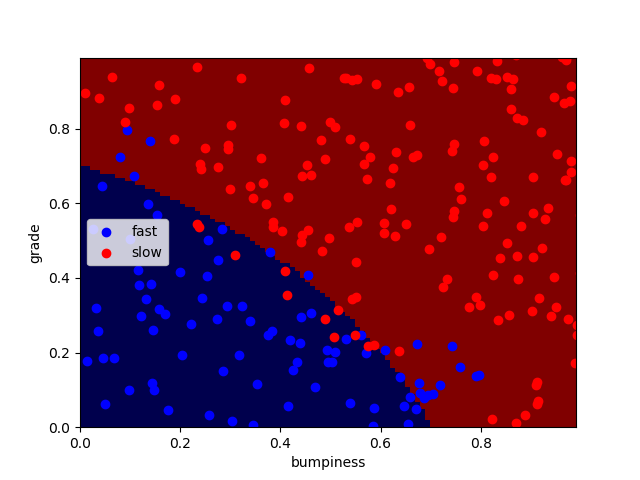
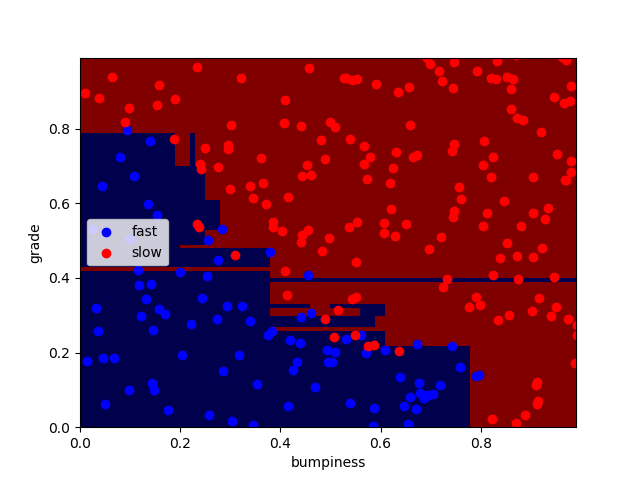
update: svm email prediction

Changed region(s): [[0.125, 0.25, 0.9062, 0.9062]]

diff --git a/models/self_driving_car/ClassifySVM.py b/models/self_driving_car/ClassifySVM.py
@@ -1,0 +1,48 @@
+import sys
+from class_vis import prettyPicture
+from prep_terrain_data import makeTerrainData
+
+import matplotlib.pyplot as plt
+import copy
+import numpy as np
+import pylab as pl
+
+
+features_train, labels_train, features_test, labels_test = makeTerrainData()
+
+
+########################## SVM #################################
+### we handle the import statement and SVC creation for you here
+from sklearn.svm import SVC
+clf = SVC(kernel="linear")
+clf.fit(features_train, labels_train)
+pred = clf.predict(features_test)
+
+clf2 = SVC(kernel='rbf', C=1.0)
+clf2.fit(features_train, labels_train)
+pred2 = clf2.predict(features_test)
+
+clf3 = SVC(kernel='rbf', C=100.0)
+clf3.fit(features_train, labels_train)
+pred3 = clf3.predict(features_test)
+
+prettyPicture(clf3, features_test, labels_test)
+plt.show()
+
+#### now your job is to fit the classifier
+#### using the training features/labels, and to
+#### make a set of predictions on the test data
+
+
+
+#### store your predictions in a list named pred
+
+
+
+
+
+from sklearn.metrics import accuracy_score
+acc = accuracy_score(pred, labels_test)
+
+def submitAccuracy():
+    return acc

diff --git a/models/self_driving_car/main.py b/models/self_driving_car/main.py
@@ -9,7 +9,8 @@
 
 from prep_terrain_data import makeTerrainData
 from class_vis import prettyPicture, output_image
-from ClassifyNB import classify, NBAccuracy
+# from ClassifyNB import classify, NBAccuracy
+from ClassifyDT import classify
 
 import numpy as np
 import pylab as pl
@@ -33,7 +34,7 @@ prettyPicture(clf, features_test, labels_test)
 output_image("test.png", "png", open("test.png", "rb").read())
 
 ### compute accuracy of model
-print 'accuracy: {}'.format(NBAccuracy(features_train, labels_train, features_test, labels_test))
+# print 'accuracy: {}'.format(NBAccuracy(features_train, labels_train, features_test, labels_test))
 
 
 

diff --git a/models/self_driving_car/ClassifyDT.py b/models/self_driving_car/ClassifyDT.py
@@ -1,0 +1,8 @@
+from sklearn.tree import DecisionTreeClassifier
+
+def classify(features_train, labels_train):
+    ### your code goes here--should return a trained decision tree classifer
+    clf = DecisionTreeClassifier()
+    clf.fit(features_train, labels_train)
+
+    return clf
